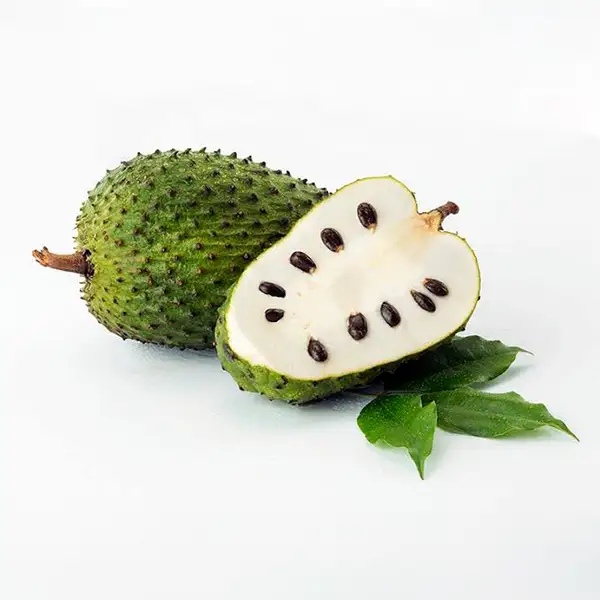
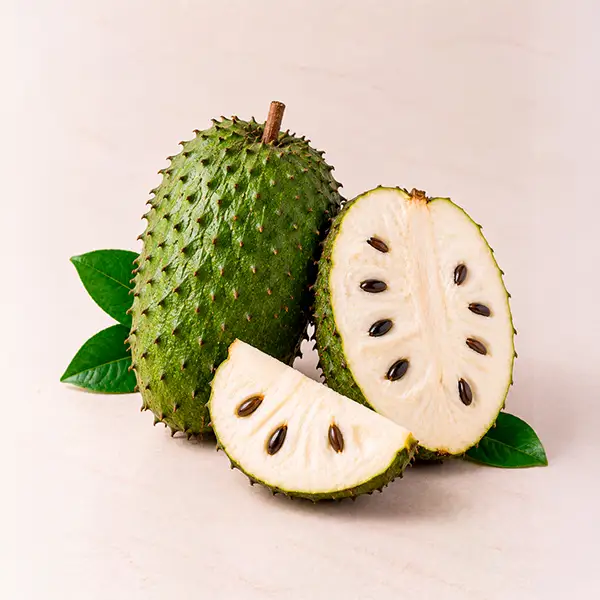
feat: update maquila, fresh fruit and iqf frozen assets and remove global markets from home

diff --git a/src/app/en/page.tsx b/src/app/en/page.tsx
@@ -1,5 +1,4 @@
 import type { Metadata } from "next";
-import Image from "next/image";
 import { HomeHero } from "@/components/hero/home-hero";
 import { BusinessLineCard } from "@/components/business/business-line-card";
 import { SectionHeading } from "@/components/ui/section-heading";
@@ -10,4 +9,4 @@ import { CertificationSection } from "@/components/trust/certification-section";
 import { images } from "@/data/images";
 
 export const metadata: Metadata = { title:"Peruvian origin. Global opportunities.", description:"Fresh fruit, IQF frozen solutions and processing services from Peru for international partners.", alternates:{ canonical:"/en", languages:{ en:"/en", es:"/es", "x-default":"/en" } }, openGraph:{ title:"Titan Fruit | Peruvian origin. Global opportunities.", description:"Fresh, frozen and processed solutions from Peru.", type:"website", url:"/en" } };
-export default function EnglishHome() { const jsonLd = { "@context":"https://schema.org", "@graph":[{ "@type":"Organization", name:"Titan Fruit", url:"https://titanfruit.pe/en", description:"Integrated Peruvian partner for fresh fruit, IQF frozen solutions and processing services." }, { "@type":"WebSite", name:"Titan Fruit", url:"https://titanfruit.pe/en" }] }; return <main><HomeHero/><section className="container py-20 sm:py-28"><SectionHeading eyebrow="Our solutions" title={<>What are you<br/>looking for?</>} intro="Three solutions. One partner."/><div className="mt-10 grid gap-5 md:grid-cols-3"><BusinessLineCard icon="leaf" title="Fresh Fruit" description="Peruvian fresh fruit for international markets." image={images.fresh} href="/en/fresh-fruit" action="EXPLORE FRESH FRUIT"/><BusinessLineCard icon="snow" title="IQF Frozen Fruit" description="Frozen fruit solutions for USA & Europe." image={images.frozen} href="/en/iqf-frozen" action="EXPLORE IQF"/><BusinessLineCard icon="factory" title="Maquila Services" description="Processing and packing solutions for your business." image={images.maquila} href="/en/maquila-services" action="EXPLORE MAQUILA"/></div></section><section className="bg-cream py-20 sm:py-28"><div className="container"><SectionHeading eyebrow="From Peru to the world" title={<>Our fresh &amp; frozen<br/>products</>} intro="Quality products, grown and processed in Peru."/><div className="mt-10"><ProductShowcase/></div></div></section><section className="bg-[#f7f8f4] py-14 sm:py-16"><div className="container"><TrustItems/></div></section><FacilitySection image={images.facility}/><CertificationSection image={images.senasa}/><section className="container py-20 sm:py-28"><SectionHeading eyebrow="International partnerships" title={<>We serve global markets</>} intro="Peruvian quality, delivered worldwide."/><div className="mt-10 grid gap-5 md:grid-cols-2">{[["USA", "Reliable IQF frozen fruit supply for the USA, serving food manufacturers, distributors and foodservice.", images.usa], ["Europe", "Premium fresh and frozen fruit supplier for Europe, meeting the highest quality and food safety requirements.", images.europeLondon]].map(([title, text, image]) => <article key={title} className="image-zoom relative min-h-[340px] overflow-hidden rounded-4xl bg-forest text-white"><Image src={image} alt={`${title} global market`} fill sizes="(max-width: 768px) 100vw, 50vw" className="object-cover opacity-70"/><div className="absolute inset-0 bg-gradient-to-t from-forest via-forest/35 to-transparent"/><div className="absolute bottom-0 p-7 sm:p-9"><h3 className="text-4xl font-bold tracking-[-.05em]">{title}</h3><p className="mt-3 max-w-md text-sm leading-6 text-white/80">{text}</p></div></article>)}</div></section><script type="application/ld+json" dangerouslySetInnerHTML={{ __html: JSON.stringify(jsonLd) }}/></main>; }
+export default function EnglishHome() { const jsonLd = { "@context":"https://schema.org", "@graph":[{ "@type":"Organization", name:"Titan Fruit", url:"https://titanfruit.pe/en", description:"Integrated Peruvian partner for fresh fruit, IQF frozen solutions and processing services." }, { "@type":"WebSite", name:"Titan Fruit", url:"https://titanfruit.pe/en" }] }; return <main><HomeHero/><section className="container py-20 sm:py-28"><SectionHeading eyebrow="Our solutions" title={<>What are you<br/>looking for?</>} intro="Three solutions. One partner."/><div className="mt-10 grid gap-5 md:grid-cols-3"><BusinessLineCard icon="leaf" title="Fresh Fruit" description="Peruvian fresh fruit for international markets." image={images.fresh} href="/en/fresh-fruit" action="EXPLORE FRESH FRUIT"/><BusinessLineCard icon="snow" title="IQF Frozen Fruit" description="Frozen fruit solutions for USA & Europe." image={images.frozen} href="/en/iqf-frozen" action="EXPLORE IQF"/><BusinessLineCard icon="factory" title="Maquila Services" description="Processing and packing solutions for your business." image={images.maquila} href="/en/maquila-services" action="EXPLORE MAQUILA"/></div></section><section className="bg-cream py-20 sm:py-28"><div className="container"><SectionHeading eyebrow="From Peru to the world" title={<>Our fresh &amp; frozen<br/>products</>} intro="Quality products, grown and processed in Peru."/><div className="mt-10"><ProductShowcase/></div></div></section><section className="bg-[#f7f8f4] py-14 sm:py-16"><div className="container"><TrustItems/></div></section><FacilitySection image={images.facility}/><CertificationSection image={images.senasa}/><script type="application/ld+json" dangerouslySetInnerHTML={{ __html: JSON.stringify(jsonLd) }}/></main>; }

diff --git a/src/data/images.ts b/src/data/images.ts
@@ -1,25 +1,25 @@
 /** Temporary editorial photography. Replace only these paths when Titan Fruit assets are available. */
 export const images = {
-  hero: "/images/temporary/fresh.jpg", fresh: "/images/temporary/fresh.jpg", frozen: "/images/temporary/frozen.jpg", maquila: "/images/temporary/maquila.jpg", facility: "/images/temporary/facility.jpg", usa: "/images/temporary/usa.jpg", europe: "/images/temporary/europe.jpg", europeLondon: "/images/temporary/europe-london.jpg",
-  avocado: "/images/temporary/avocado.jpg", dragonFruit: "/images/temporary/dragonFruit.jpg", freshFruitHero: "/images/company/fresh-fruit.webp", granadilla: "/images/temporary/granadilla.jpg", blueberries: "/images/temporary/blueberries.jpg", passionFruit: "/images/temporary/passionFruit.jpg", strawberries: "/images/temporary/strawberries.jpg", aji: "/images/temporary/aji.jpg", garlic: "/images/temporary/garlic.jpg", paprika: "/images/temporary/paprika.jpg", peppers: "/images/temporary/peppers.jpg", senasa: "/images/company/senasa-authorization.jpg",
-  palta: "/images/company/palta_titan_fruit_660_600.webp",
-  pitahaya: "/images/company/pitahaya_titan_fruit_660_600.webp",
-  granadillaFruit: "/images/company/granadilla_titan_fruit_660_600.webp",
-  arandanos: "/images/company/arandanos_titan_fruit_660_600.webp",
-  maracuya: "/images/company/maracuya_titan_fruit_660_600.webp",
-  fresas: "/images/company/fresas_titan_fruit_660_600.webp",
-  aguaymanto: "/images/company/aguaymanto_titan_fruit_660_600.webp",
-  chirimoya: "/images/company/chirimoya_titan_fruit_660_600.webp",
+  hero: "/images/company/home_titanfruit.webp", fresh: "/images/company/fresh_fruit_titan.webp", frozen: "/images/company/frozen_fruit_titan.webp", maquila: "/images/company/maquila_titan.webp", facility: "/images/company/support_titan.webp", support: "/images/company/support_titan.webp", usa: "/images/temporary/usa.jpg", europe: "/images/temporary/europe.jpg", europeLondon: "/images/temporary/europe-london.jpg",
+  avocado: "/images/temporary/avocado.jpg", dragonFruit: "/images/temporary/dragonFruit.jpg", freshFruitHero: "/images/company/fresh_fruit_titanfruit.webp", iqFrozenHero: "/images/company/iq_frozen_titanfruit.webp", iqPalta: "/images/company/iq_palta.webp", iqPitahaya: "/images/company/iq_pitahaya.webp", iqArandano: "/images/company/iq_arandano.webp", iqFresa: "/images/company/iq_fresa.webp", granadilla: "/images/temporary/granadilla.jpg", blueberries: "/images/temporary/blueberries.jpg", passionFruit: "/images/temporary/passionFruit.jpg", strawberries: "/images/temporary/strawberries.jpg", aji: "/images/temporary/aji.jpg", garlic: "/images/temporary/garlic.jpg", paprika: "/images/temporary/paprika.jpg", peppers: "/images/temporary/peppers.jpg", senasa: "/images/company/senasa-authorization.jpg",
+  palta: "/images/company/palta_fruit_660_600.webp",
+  pitahaya: "/images/company/pitahaya_fruit_660_600.webp",
+  granadillaFruit: "/images/company/granadilla_fruit_660_600.webp",
+  arandanos: "/images/company/arandanos_fruit_660_600.webp",
+  maracuya: "/images/company/maracuya_fruit_660_600.webp",
+  fresas: "/images/company/fresas_fruit_600_600.webp",
+  aguaymanto: "/images/company/aguaimanto_fruit_660_600.webp",
+  chirimoya: "/images/company/chirimoya_fruit_660_600.webp",
   guanabana: "/images/company/guanabana_titan_fruit_660_600.webp",
-  mandarina: "/images/company/mandarina_titan_fruit_660_600.webp",
-  pina: "/images/company/pina_titan_fruit_660_600.webp",
-  tuna: "/images/company/tuna_titan_fruit_660_600.webp",
-  ajiAmarillo: "/images/company/ajiamarillo_fruit_660_600.jpg",
-  ajiLimo: "/images/company/ajilimo_fruit_660_600.jpg",
-  pimiento: "/images/company/pimiento_fruit_660_600.jpg",
-  rocoto: "/images/company/rocoto_fruit_660_600.jpg",
-  ajo: "/images/company/ajo_fruit_660_600.jpg",
-  paprikaProduct: "/images/company/papikra_fruit_660_600.jpg",
-  kion: "/images/company/kion_fruit_660_600.jpg",
-  maquilaHero: "/images/maquila/hero-maquila.jpg", maquilaSolution1: "/images/maquila/solution-1.jpg", maquilaSolution2: "/images/maquila/solution-2.jpg", maquilaSolution3: "/images/maquila/solution-3.jpg", maquilaSolution4: "/images/maquila/solution-4.jpg", maquilaCard1: "/images/maquila/card-entrepreneurs.jpg", maquilaCard2: "/images/maquila/card-merchants.jpg", maquilaCard3: "/images/maquila/card-exporters.jpg",
+  mandarina: "/images/company/mandarina_fruit_660_600.webp",
+  pina: "/images/company/pina_fruit_660_600.webp",
+  tuna: "/images/company/tuna_fruit_660_600.webp",
+  ajiAmarillo: "/images/company/ajiamarillo_fruit_660_600.webp",
+  ajiLimo: "/images/company/ajilimo_fruit_660_600.webp",
+  pimiento: "/images/company/pimiento_fruit_660_600.webp",
+  rocoto: "/images/company/rocoto_fruit_660_600.webp",
+  ajo: "/images/company/ajo_fruit_600_600.webp",
+  paprikaProduct: "/images/company/papikra_fruit_600_600.webp",
+  kion: "/images/company/kion_fruit_660_600.webp",
+  maquilaHero: "/images/company/maquila_titanfruit.webp", maquilaSolution1: "/images/company/solution1.webp", maquilaSolution2: "/images/company/solution2.webp", maquilaSolution3: "/images/company/solution3.webp", maquilaSolution4: "/images/company/solution4.webp", maquilaCard1: "/images/company/solution5.webp", maquilaCard2: "/images/company/solution6.webp", maquilaCard3: "/images/company/solution7.webp",
 } as const;

diff --git a/src/components/pages/iqf-page.tsx b/src/components/pages/iqf-page.tsx
@@ -6,10 +6,10 @@ import { SectionHeading } from "@/components/ui/section-heading";
 import { images } from "@/data/images";
 
 const frozenProducts = [
-  { name: "IQF Frozen Avocado", slug: "hass-avocado", image: images.avocado, description: "Creamy texture and natural flavor, perfect for guacamole, dips, smoothies and foodservice.", applications: ["Guacamole & dips", "Smoothies", "Foodservice", "Food manufacturing"] },
-  { name: "IQF Frozen Dragon Fruit (American Beauty)", slug: "dragon-fruit", image: images.fresh, description: "Vibrant color and exotic flavor, ideal for smoothies, beverages, desserts and more.", applications: ["Smoothies & juices", "Beverages", "Desserts", "Bakery"] },
-  { name: "IQF Frozen Blueberries", slug: "blueberries", image: images.blueberries, description: "Bursting with flavor and antioxidants, perfect for a wide range of food applications.", applications: ["Bakery", "Smoothies", "Yogurt & dairy", "Food manufacturing"] },
-  { name: "IQF Frozen Strawberries", slug: "strawberries", image: images.strawberries, description: "Sweet, juicy and convenient. Perfect for desserts, smoothies, bakery and more.", applications: ["Bakery", "Smoothies", "Desserts", "Ice cream & dairy"] },
+  { name: "IQF Frozen Avocado", slug: "hass-avocado", image: images.iqPalta, description: "Creamy texture and natural flavor, perfect for guacamole, dips, smoothies and foodservice.", applications: ["Guacamole & dips", "Smoothies", "Foodservice", "Food manufacturing"] },
+  { name: "IQF Frozen Dragon Fruit (American Beauty)", slug: "dragon-fruit", image: images.iqPitahaya, description: "Vibrant color and exotic flavor, ideal for smoothies, beverages, desserts and more.", applications: ["Smoothies & juices", "Beverages", "Desserts", "Bakery"] },
+  { name: "IQF Frozen Blueberries", slug: "blueberries", image: images.iqArandano, description: "Bursting with flavor and antioxidants, perfect for a wide range of food applications.", applications: ["Bakery", "Smoothies", "Yogurt & dairy", "Food manufacturing"] },
+  { name: "IQF Frozen Strawberries", slug: "strawberries", image: images.iqFresa, description: "Sweet, juicy and convenient. Perfect for desserts, smoothies, bakery and more.", applications: ["Bakery", "Smoothies", "Desserts", "Ice cream & dairy"] },
 ] as const;
 
 const reasons: { icon: IconName; title: string; text: string }[] = [
@@ -30,7 +30,7 @@ const benefits: { icon: IconName; title: string; text: string }[] = [
 export function IqfPage() {
   return <main>
     <section className="relative isolate h-[calc(100svh-60px)] min-h-[590px] overflow-hidden bg-[#071529] text-white lg:min-h-0">
-      <Image src={images.fresh} priority fill sizes="100vw" alt="Dragon fruit prepared for IQF freezing" className="object-cover object-center" />
+      <Image src={images.iqFrozenHero} priority fill sizes="100vw" alt="IQF frozen fruit from Peru" className="object-cover object-center" />
       <div className="absolute inset-0 bg-gradient-to-r from-[#071529]/95 via-[#071529]/78 to-[#071529]/20" />
       <div className="container relative flex h-full items-center py-10 sm:py-16"><div className="max-w-2xl">
         <p className="eyebrow text-[#69a8ff]">IQF frozen fruit solutions</p>
